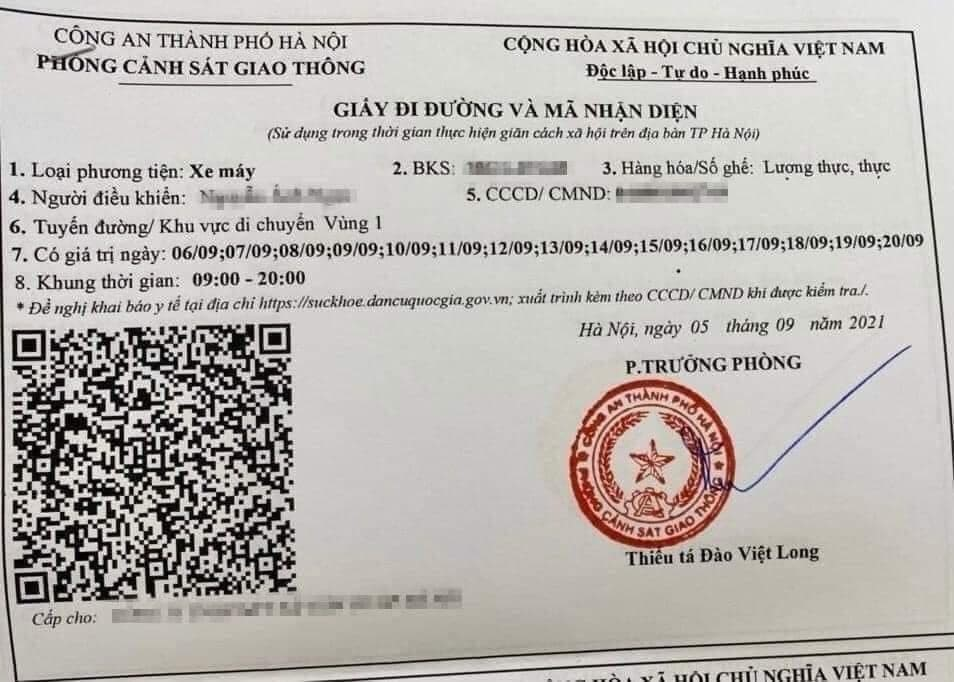
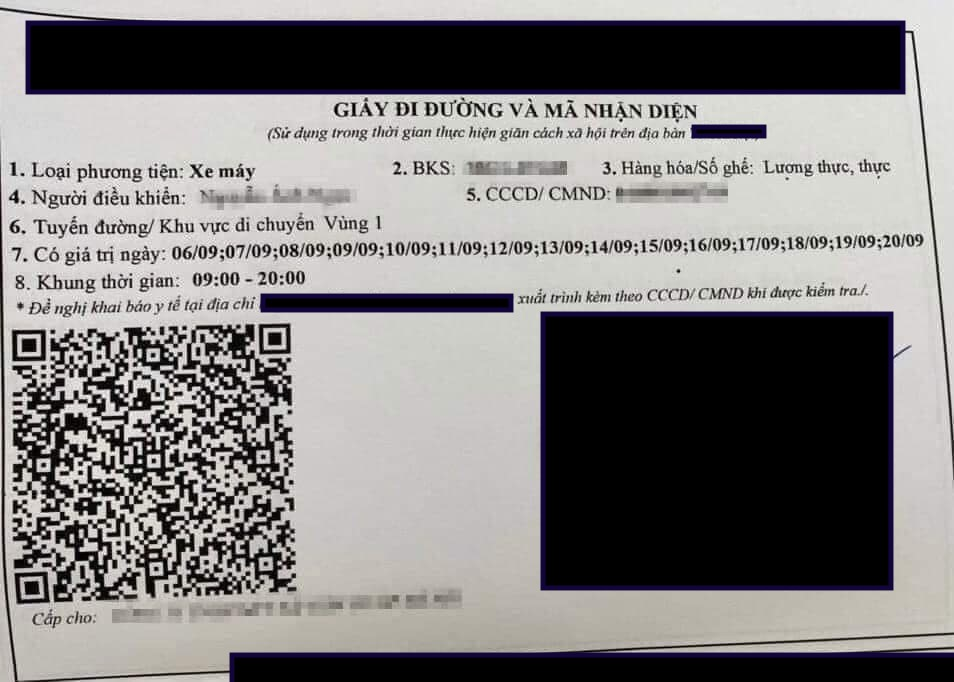
fix posts

diff --git a/docs/research/2021/09/29/weak-key-cryptography-in-real-world.html b/docs/research/2021/09/29/weak-key-cryptography-in-real-world.html
@@ -305,7 +305,7 @@
         
         <h2 id="vulnerability-summary">Vulnerability Summary</h2>
 
-<p>Hanoi Police Department was using a QR generation system to provide COVID passes for its citizens to go out. The system was vulnerable to a weak key cryptography attack which may allow COVID patients to self-generate passes.</p>
+<p>A Non-US Goverment agency was using a QR generation system to provide COVID passes for its citizens to go out. The system was vulnerable to a weak key cryptography attack which may allow COVID patients to self-generate passes.</p>
 
 <h2 id="vulnerability-analysis">Vulnerability Analysis</h2>
 <p><strong><em>1. QR Data:</em></strong></p>
@@ -321,21 +321,16 @@
 7 - Valid from/to (date)<br />
 8 - Valid from/to (time)</p>
 
-<p><img src="/images/1.jpg" alt="" /><br />
-Source: <a href="https://thanhtra.com.vn/xa-hoi/doi-song/ghi-nhan-trong-ngay-dau-ha-noi-thuc-hien-gian-cach-xa-hoi-phan-vung-187326.html">https://thanhtra.com.vn/xa-hoi/doi-song/ghi-nhan-trong-ngay-dau-ha-noi-thuc-hien-gian-cach-xa-hoi-phan-vung-187326.html</a></p>
+<p><img src="/images/1.jpg" alt="" /></p>
 
 <p>As the QR code was not hidden, we were able to decode its information:</p>
-<div class="language-plaintext highlighter-rouge"><div class="highlight"><pre class="highlight"><code>**D9LOgcTFAS1MeC3kD4J+5PmAW5C4mOrPcbwbynsY6GEuGNkpe/dwIM5cr0MS/a+LT1y9z+8sKJA9UaPZTmYJwQ==|**10505|3|06/09;07/09;08/09;09/09;10/09;11/09;12/09;13/09;14/09;15/09;16/09;17/09;18/09;19/09;20/09|4_PHÒNG CẢNH SÁT GIAO THÔNG|02439424451|29G1–391.89| |Vùng 1|Nguyễn Ánh Ngọc||09:00–20:00
+<div class="language-plaintext highlighter-rouge"><div class="highlight"><pre class="highlight"><code>**D9LOgcTFAS1MeC3kD4J+5PmAW5C4mOrPcbwbynsY6GEuGNkpe/dwIM5cr0MS/a+LT1y9z+8sKJA9UaPZTmYJwQ==|**10505|3|06/09;07/09;08/09;09/09;10/09;11/09;12/09;13/09;14/09;15/09;16/09;17/09;18/09;19/09;20/09|4_[LOCAL_NON_US_GOVENMENT_AGENCY_NAME_]]|02439424451|29G1–391.89| |Vùng 1|Nguyễn Ánh Ngọc||09:00–20:00
 </code></pre></div></div>
 <p>The decoded string above contains information about the requester, zone ID/passes provider (i.e. <code class="language-plaintext highlighter-rouge">10505</code>). Additionally, there is a signature string at the beginning of this decoded QR - signed by RSA - SHA 256.</p>
 
 <p><strong><em>2. Validation</em></strong></p>
 
-<p>It was not hard for us to find out the application on Google Play Store (now removed). However, due to countries restriction, we had to use VPN to download the application named <code class="language-plaintext highlighter-rouge">Kiểm soát đi đường</code> a.k.a <code class="language-plaintext highlighter-rouge">Vehicle Operating Control</code> in English.</p>
-
-<blockquote>
-  <p><strong><em>Download link (now removed)</em></strong>: <a href="https://play.google.com/store/apps/details?id=com.qrca">https://play.google.com/store/apps/details?id=com.qrca</a></p>
-</blockquote>
+<p>It was not hard for us to find out the application on Google Play Store (now removed). However, due to countries restriction, we had to use VPN to download the application named <code class="language-plaintext highlighter-rouge">Vehicle Operating Control</code> in English which had been removed after the research.</p>
 
 <p>Let’s go through the application workflow:</p>
 
@@ -348,16 +343,16 @@ Source: <a href="https://thanhtra.com.vn/xa-hoi/doi-song/ghi-nhan-trong-ngay-dau
 <p><strong><em>3. Deep dive into the workflow</em></strong></p>
 
 <p>The original data was retrieved from the QR:</p>
-<div class="language-plaintext highlighter-rouge"><div class="highlight"><pre class="highlight"><code>D9LOgcTFAS1MeC3kD4J+5PmAW5C4mOrPcbwbynsY6GEuGNkpe/dwIM5cr0MS/a+LT1y9z+8sKJA9UaPZTmYJwQ==|10505|3|06/09;07/09;08/09;09/09;10/09;11/09;12/09;13/09;14/09;15/09;16/09;17/09;18/09;19/09;20/09|4_PHÒNG CẢNH SÁT GIAO THÔNG|02439424451|29G1–391.89| |Vùng 1|Nguyễn Ánh Ngọc||09:00–20:00
+<div class="language-plaintext highlighter-rouge"><div class="highlight"><pre class="highlight"><code>**D9LOgcTFAS1MeC3kD4J+5PmAW5C4mOrPcbwbynsY6GEuGNkpe/dwIM5cr0MS/a+LT1y9z+8sKJA9UaPZTmYJwQ==|**10505|3|06/09;07/09;08/09;09/09;10/09;11/09;12/09;13/09;14/09;15/09;16/09;17/09;18/09;19/09;20/09|4_[LOCAL_NON_US_GOVENMENT_AGENCY_NAME_]]|02439424451|29G1–391.89| |Vùng 1|Nguyễn Ánh Ngọc||09:00–20:00
 </code></pre></div></div>
-<p>This contains: <code class="language-plaintext highlighter-rouge">10505</code> - zone ID/passes provider, named <code class="language-plaintext highlighter-rouge">Police Department</code>.</p>
+<p>This contains: <code class="language-plaintext highlighter-rouge">10505</code> - zone ID/passes provider, named <code class="language-plaintext highlighter-rouge">Local Authority Department</code>.</p>
 
 <p>Once the application received the QR data, it would take the data string from zone ID to the end, then do the following steps:</p>
 
 <ul>
   <li>Removing <code class="language-plaintext highlighter-rouge">|</code></li>
   <li>Removing special characters</li>
-  <li>English Alphabetized Vietnamese chars (i.e.: ê -&gt; e)</li>
+  <li>English Alphabetized all chars (i.e.: ê -&gt; e)</li>
   <li>Lowercase transformation</li>
 </ul>
 
@@ -439,9 +434,6 @@ Setting up EC2 instances</p>
 
 <p><img src="/images/10.png" alt="" />  <br />
 Generating QR Code</p>
-
-<p><img src="/images/11.png" alt="" /><br />
-Valid COVID pass</p>
 
         
       </section>

diff --git a/docs/assets/js/lunr/lunr-store.js b/docs/assets/js/lunr/lunr-store.js
@@ -66,7 +66,7 @@ var store = [{
         "teaser": null
       },{
         "title": "How I faked tons of COVID passes — Weak Key Cryptography in real world",
-        "excerpt":"Vulnerability Summary Hanoi Police Department was using a QR generation system to provide COVID passes for its citizens to go out. The system was vulnerable to a weak key cryptography attack which may allow COVID patients to self-generate passes. Vulnerability Analysis 1. QR Data: Through news channels and social medias,...","categories": ["Research"],
+        "excerpt":"Vulnerability Summary A Non-US Goverment agency was using a QR generation system to provide COVID passes for its citizens to go out. The system was vulnerable to a weak key cryptography attack which may allow COVID patients to self-generate passes. Vulnerability Analysis 1. QR Data: Through news channels and social...","categories": ["Research"],
         "tags": [],
         "url": "/research/2021/09/29/weak-key-cryptography-in-real-world.html",
         "teaser": null

diff --git a/_posts/2021-09-29-weak-key-cryptography-in-real-world.md b/_posts/2021-09-29-weak-key-cryptography-in-real-world.md
@@ -6,7 +6,7 @@ categories:
 ---
 ## Vulnerability Summary
 
-Hanoi Police Department was using a QR generation system to provide COVID passes for its citizens to go out. The system was vulnerable to a weak key cryptography attack which may allow COVID patients to self-generate passes.
+A Non-US Goverment agency was using a QR generation system to provide COVID passes for its citizens to go out. The system was vulnerable to a weak key cryptography attack which may allow COVID patients to self-generate passes.
 
 ## Vulnerability Analysis
 ***1. QR Data:***
@@ -23,19 +23,16 @@ Through news channels and social medias, we were able to find a sample COVID pas
 8 - Valid from/to (time)
 
 ![](/images/1.jpg)  
-Source: [https://thanhtra.com.vn/xa-hoi/doi-song/ghi-nhan-trong-ngay-dau-ha-noi-thuc-hien-gian-cach-xa-hoi-phan-vung-187326.html](https://thanhtra.com.vn/xa-hoi/doi-song/ghi-nhan-trong-ngay-dau-ha-noi-thuc-hien-gian-cach-xa-hoi-phan-vung-187326.html)
 
 As the QR code was not hidden, we were able to decode its information:
 ```
-**D9LOgcTFAS1MeC3kD4J+5PmAW5C4mOrPcbwbynsY6GEuGNkpe/dwIM5cr0MS/a+LT1y9z+8sKJA9UaPZTmYJwQ==|**10505|3|06/09;07/09;08/09;09/09;10/09;11/09;12/09;13/09;14/09;15/09;16/09;17/09;18/09;19/09;20/09|4_PHÒNG CẢNH SÁT GIAO THÔNG|02439424451|29G1–391.89| |Vùng 1|Nguyễn Ánh Ngọc||09:00–20:00
+**D9LOgcTFAS1MeC3kD4J+5PmAW5C4mOrPcbwbynsY6GEuGNkpe/dwIM5cr0MS/a+LT1y9z+8sKJA9UaPZTmYJwQ==|**10505|3|06/09;07/09;08/09;09/09;10/09;11/09;12/09;13/09;14/09;15/09;16/09;17/09;18/09;19/09;20/09|4_[LOCAL_NON_US_GOVENMENT_AGENCY_NAME_]]|02439424451|29G1–391.89| |Vùng 1|Nguyễn Ánh Ngọc||09:00–20:00
 ```
 The decoded string above contains information about the requester, zone ID/passes provider (i.e. `10505`). Additionally, there is a signature string at the beginning of this decoded QR - signed by RSA - SHA 256.
 
 ***2. Validation***
 
-It was not hard for us to find out the application on Google Play Store (now removed). However, due to countries restriction, we had to use VPN to download the application named `Kiểm soát đi đường` a.k.a `Vehicle Operating Control` in English.
-
-> **_Download link (now removed)_**: [https://play.google.com/store/apps/details?id=com.qrca](https://play.google.com/store/apps/details?id=com.qrca)
+It was not hard for us to find out the application on Google Play Store (now removed). However, due to countries restriction, we had to use VPN to download the application named `Vehicle Operating Control` in English which had been removed after the research.
 
 Let's go through the application workflow:
 
@@ -49,15 +46,15 @@ Not validating the data on server side means one thing: If the Private Key from 
 
 The original data was retrieved from the QR:
 ```
-D9LOgcTFAS1MeC3kD4J+5PmAW5C4mOrPcbwbynsY6GEuGNkpe/dwIM5cr0MS/a+LT1y9z+8sKJA9UaPZTmYJwQ==|10505|3|06/09;07/09;08/09;09/09;10/09;11/09;12/09;13/09;14/09;15/09;16/09;17/09;18/09;19/09;20/09|4_PHÒNG CẢNH SÁT GIAO THÔNG|02439424451|29G1–391.89| |Vùng 1|Nguyễn Ánh Ngọc||09:00–20:00
+**D9LOgcTFAS1MeC3kD4J+5PmAW5C4mOrPcbwbynsY6GEuGNkpe/dwIM5cr0MS/a+LT1y9z+8sKJA9UaPZTmYJwQ==|**10505|3|06/09;07/09;08/09;09/09;10/09;11/09;12/09;13/09;14/09;15/09;16/09;17/09;18/09;19/09;20/09|4_[LOCAL_NON_US_GOVENMENT_AGENCY_NAME_]]|02439424451|29G1–391.89| |Vùng 1|Nguyễn Ánh Ngọc||09:00–20:00
 ```
-This contains: `10505` - zone ID/passes provider, named `Police Department`.
+This contains: `10505` - zone ID/passes provider, named `Local Authority Department`.
 
 Once the application received the QR data, it would take the data string from zone ID to the end, then do the following steps:
 
 - Removing `|`
 - Removing special characters
-- English Alphabetized Vietnamese chars (i.e.: ê -> e)
+- English Alphabetized all chars (i.e.: ê -> e)
 - Lowercase transformation
 
 ![](/images/3.jpg)
@@ -136,6 +133,3 @@ Once we got the key factors, we were able to calculate the original Private Key 
 
 ![](/images/10.png)    
 Generating QR Code
-
-![](/images/11.png)  
-Valid COVID pass
